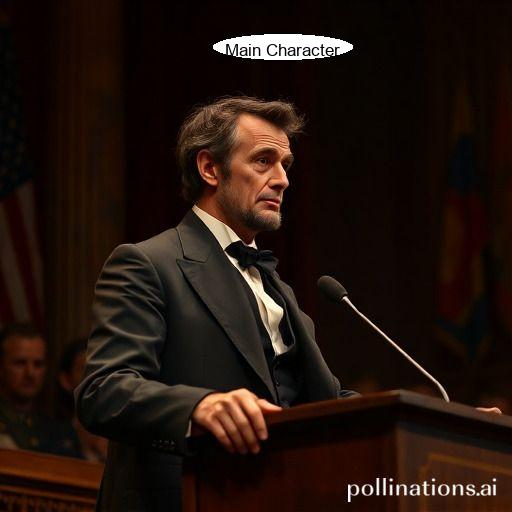
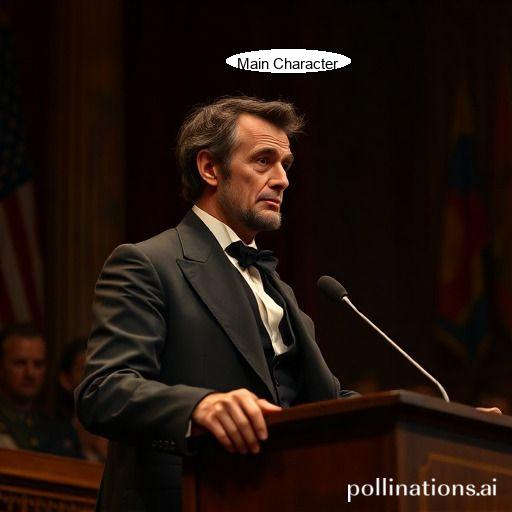
dlib

Changed region(s): [[0.4062, 0.0625, 0.6875, 0.1562]]

diff --git a/helpers/comicator.py b/helpers/comicator.py
@@ -1,6 +1,7 @@
 import cv2
 import numpy as np
 from PIL import Image, ImageDraw, ImageFont
+import dlib
 
 def add_text_bubble(image, text, x, y, face_width):
     draw = ImageDraw.Draw(image)
@@ -26,18 +27,20 @@ def add_text_bubble(image, text, x, y, face_width):
     draw.text((x + bubble_padding_x, y - bubble_height + bubble_padding_y), text, font=font, fill='black')
 
 def detect_main_face_and_add_text(image_path, output_path):
-    face_cascade = cv2.CascadeClassifier(cv2.data.haarcascades + 'haarcascade_frontalface_default.xml')
+    detector = dlib.get_frontal_face_detector()
 
     img = cv2.imread(image_path)
-    gray = cv2.cvtColor(img, cv2.COLOR_BGR2GRAY)
+    rgb_img = cv2.cvtColor(img, cv2.COLOR_BGR2RGB)
 
-    faces = face_cascade.detectMultiScale(gray, 1.1, 4)
+    faces = detector(rgb_img)
 
     if len(faces) > 0:
-        main_face = max(faces, key=lambda f: f[2] * f[3])
-        x, y, w, h = main_face
+        main_face = max(faces, key=lambda rect: rect.width() * rect.height())
+        
+        x, y = main_face.left(), main_face.top()
+        w, h = main_face.width(), main_face.height()
 
-        pil_img = Image.fromarray(cv2.cvtColor(img, cv2.COLOR_BGR2RGB))
+        pil_img = Image.fromarray(rgb_img)
 
         text = "Main Character"
         add_text_bubble(pil_img, text, x, y - int(h * 0.5), w)
